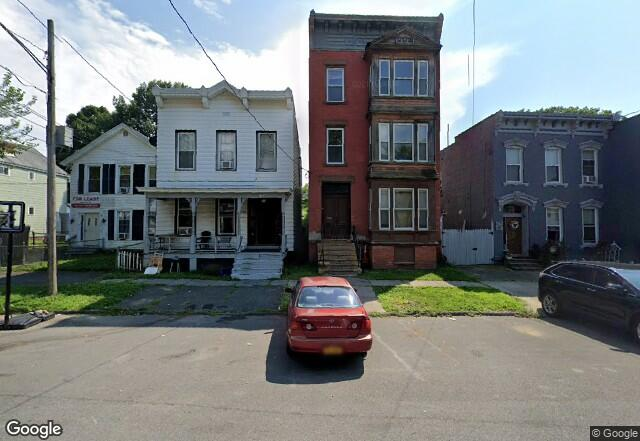
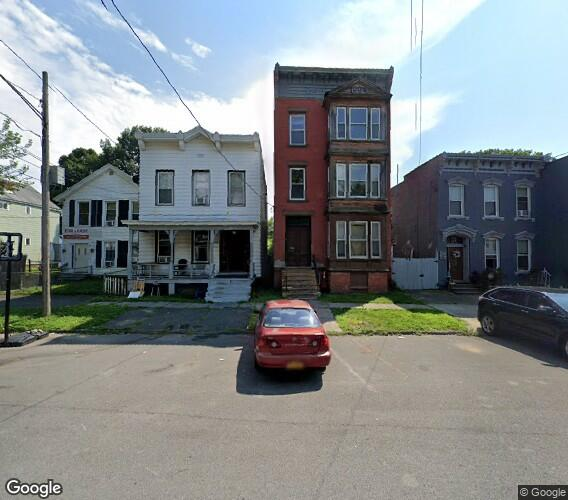
add images

diff --git a/image_suggest/main.py b/image_suggest/main.py
@@ -6,7 +6,7 @@ load_dotenv()
 
 API_KEY = os.getenv("GCP_API")
 api_url = "https://maps.googleapis.com/maps/api/streetview?"
-size = "size=665x441"
+size = "size=568x500"
 inp_address = input("What address do you want: ")
 address = "&location=" + inp_address.replace(" ", "+")
 #print(API_KEY)
